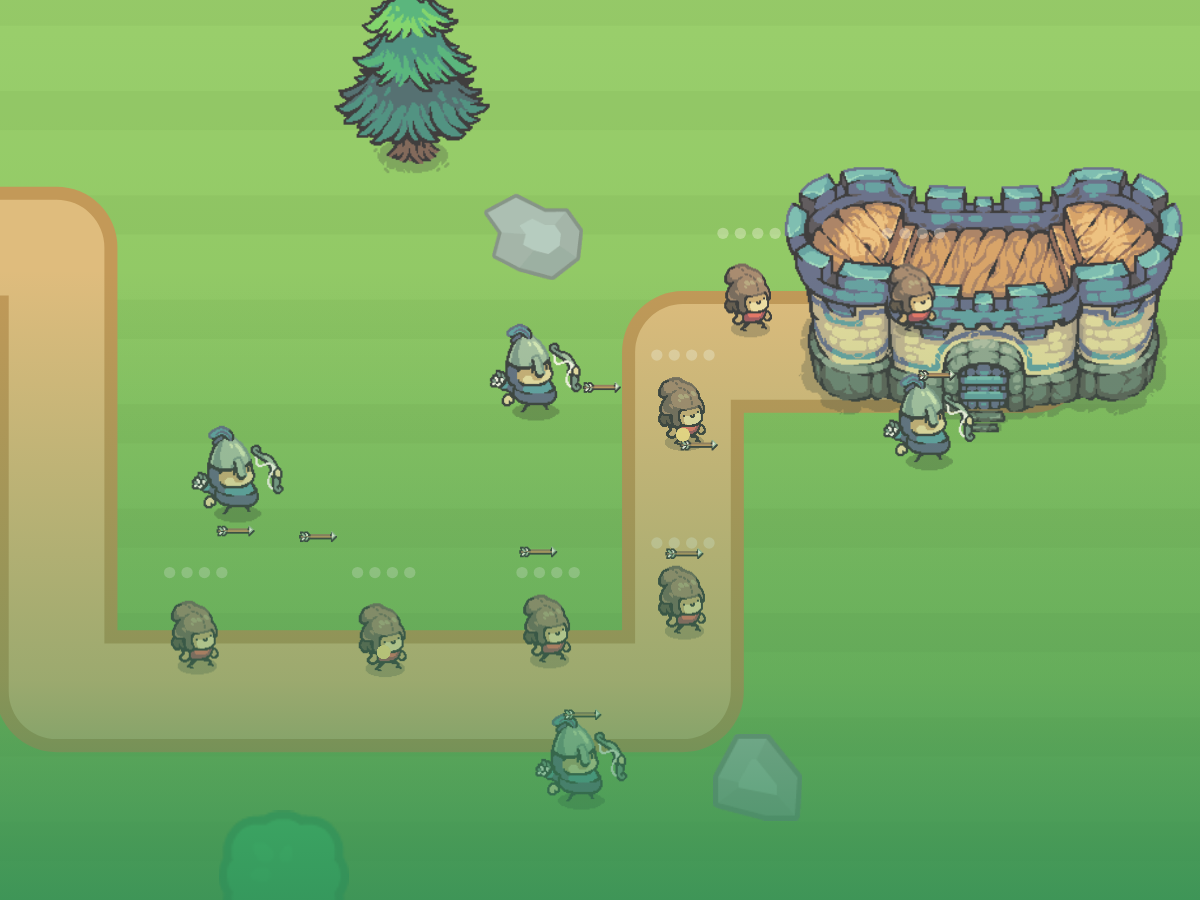
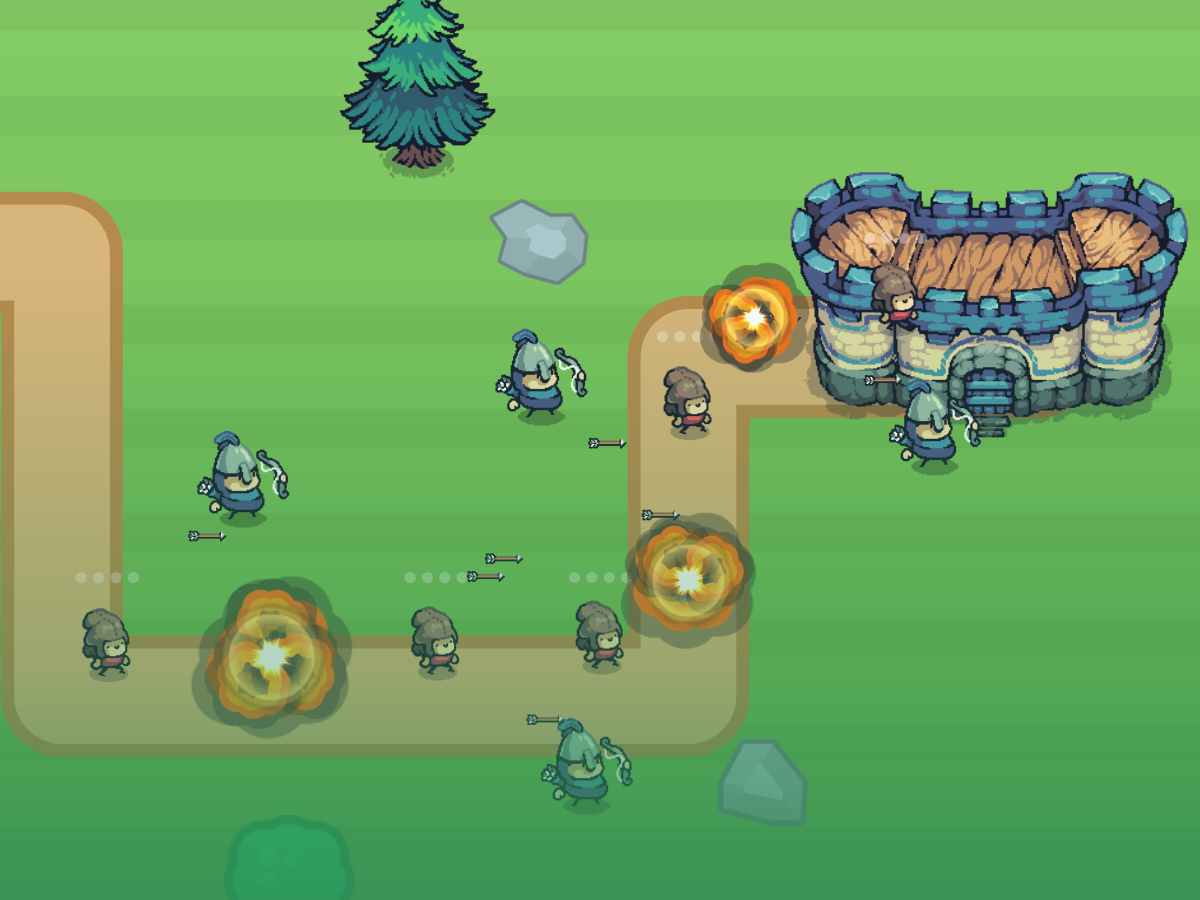
TS0: real explosions in both games, not painted into the photo
Mike asked for explosions. No new art was needed: the shared FX library
already held a nine-frame cartoon explosion (public/fx/explode0-8.png,
Kenney CC0) that no game had ever used.

- BM.blast in buildable-mechanics.js: a layered pop with the explosion
  puff drawn in its OWN colours, a shockwave ring, and a spray of stars
  and sparks. BM.explode tints every layer one flat colour, which is
  why a big one reads as a coloured blob; BM.drawParticles learned a
  raw flag so a texture can keep its own art.
- Wired into Survival's killEnemy and Castle Guard's poofBaddie, so it
  happens in play, not only in the picture.
- Castle Guard had never called BM.useTextures, so every one of its
  effects fell back to plain coloured dots. It now registers the same
  FX pack as the other engines.
- In the shots the blasts sit in the gaps where a foe just was, never
  over one still coming at you, and the screen flash and shake are off
  for the photo since both are motion cues that muddy a still frame.

qa-all.mjs: ALL CHECKS PASS. Both games still boot normally with no
photo mode and no console errors.

Claude-Session: https://claude.ai/code/session_01Kb34U7udKzq9aZuocsz4oQ

diff --git a/public/buildable-mechanics.js b/public/buildable-mechanics.js
@@ -66,7 +66,7 @@
         x, y, vx: Math.cos(a) * s, vy: Math.sin(a) * s,
         life: rnd(lf[0], lf[1]), max: lf[1], col,
         r: opts.r || 3, gravity: opts.gravity || 0, drag: opts.drag != null ? opts.drag : 4.5,
-        tex: opts.tex || null, add: !!opts.additive, rot: opts.tex ? Math.random() * TAU : 0
+        tex: opts.tex || null, add: !!opts.additive, raw: !!opts.raw, rot: opts.tex ? Math.random() * TAU : 0
       });
     }
   };
@@ -89,7 +89,7 @@
       const a = Math.max(0, Math.min(1, p.life / (p.max || 0.5)));
       const im = p.tex && BM.tex[p.tex];
       if (im && (im.naturalWidth || im.width)) {
-        const t = tintedTex(im, p.col || "#fff");
+        const t = p.raw ? im : tintedTex(im, p.col || "#fff");
         if (t) { ctx.save(); ctx.globalAlpha = a; if (p.add) ctx.globalCompositeOperation = "lighter";
           const s = (p.r || 3) * 4; ctx.translate(p.x, p.y); if (p.rot) ctx.rotate(p.rot); ctx.drawImage(t, -s / 2, -s / 2, s, s);
           ctx.restore(); continue; }
@@ -164,6 +164,43 @@
     BM.flash(fx, opts.flashCol || col, opts.flash != null ? opts.flash : (big ? 0.3 : 0.18));
     BM.shake(fx, opts.shake != null ? opts.shake : (big ? 0.4 : 0.12));
     if (opts.pop) BM.pop(fx.pops, x, y, opts.pop, opts.popCol || col);
+    if (typeof opts.sfx === "function") opts.sfx();
+    else if (opts.sfx && g.BuildableAudio) g.BuildableAudio.sfx(opts.sfx);
+  };
+
+  // ---- BLAST: the big, bright, kid-safe explosion --------------------------
+  // BM.explode tints every layer one flat colour, so a big one reads as a
+  // coloured blob. A blast layers the FX pack instead: a flare core drawn in its
+  // OWN colours, a shockwave ring, a spray of stars and sparks, and a few soft
+  // puffs drifting off it. No fire and no debris — things pop, they do not burn.
+  //   BM.blast(fx, x, y, "#ffd23f", { size: 1.4, sfx: "boom" })
+  BM.blast = function (fx, x, y, col, opts) {
+    if (!fx) return;
+    opts = opts || {}; const z = opts.size || 1; col = col || "#ffe27a";
+    if (BM.hasTex("boom")) {
+      // core: the cartoon explosion puff in its OWN colours (orange heart, grey
+      // rim), the shape a four-year-old reads as "it popped"
+      fx.parts.push({ x, y, vx: 0, vy: 0, life: 0.34, max: 0.34, col: "#fff",
+        r: 15 * z, drag: 0, gravity: 0, tex: "boom", add: false, raw: true, rot: 0 });
+      for (let i = 0; i < 3; i++) {
+        const a = Math.random() * TAU, d = 11 * z;
+        fx.parts.push({ x: x + Math.cos(a) * d, y: y + Math.sin(a) * d, vx: Math.cos(a) * 70, vy: Math.sin(a) * 70,
+          life: 0.4, max: 0.4, col: "#fff", r: 9 * z, drag: 3, gravity: 0, tex: "boom", add: false, raw: true, rot: Math.random() * TAU });
+      }
+      if (BM.hasTex("puff")) BM.burst(fx.parts, x, y, "#fff", Math.round(4 * z), { tex: "puff", raw: true, spd: [40, 150], life: [0.5, 0.9], r: 10 * z, drag: 2.4 });
+      BM.burst(fx.parts, x, y, col, Math.round(10 * z), { tex: "star", additive: true, spd: [150, 430], life: [0.32, 0.62], r: 6 * z, drag: 4.5 });
+      BM.burst(fx.parts, x, y, "#ffffff", Math.round(12 * z), { tex: "spark", additive: true, spd: [190, 520], life: [0.24, 0.5], r: 4.5 * z, drag: 5.5 });
+    } else if (BM.hasTex("spark")) {
+      fx.parts.push({ x, y, vx: 0, vy: 0, life: 0.22, max: 0.22, col: col,
+        r: 15 * z, drag: 0, gravity: 0, tex: "glow", add: true, rot: 0 });
+      BM.burst(fx.parts, x, y, col, Math.round(11 * z), { tex: "star", additive: true, spd: [130, 420], life: [0.32, 0.62], r: 6 * z, drag: 4.5 });
+      BM.burst(fx.parts, x, y, "#ffffff", Math.round(13 * z), { tex: "spark", additive: true, spd: [180, 520], life: [0.24, 0.5], r: 4.5 * z, drag: 5.5 });
+    } else {
+      BM.burst(fx.parts, x, y, col, Math.round(22 * z), { spd: [90, 380], life: [0.3, 0.6], r: 4 * z });
+    }
+    BM.ring(fx, x, y, 120 * z, col);
+    BM.flash(fx, opts.flashCol || col, opts.flash != null ? opts.flash : 0.22 * z);
+    BM.shake(fx, opts.shake != null ? opts.shake : 0.22 * z);
     if (typeof opts.sfx === "function") opts.sfx();
     else if (opts.sfx && g.BuildableAudio) g.BuildableAudio.sfx(opts.sfx);
   };

diff --git a/public/survival-engine.html b/public/survival-engine.html
@@ -157,7 +157,7 @@ function sfx(n,o){ if(DEMO)return; if(BA)BA.sfx(n,o); }
 const BM=(typeof window!=="undefined"&&window.BuildableMechanics)||(typeof globalThis!=="undefined"&&globalThis.BuildableMechanics);
 const fx=BM?BM.makeFx():null;   // flash+shake live here; the engine keeps its own particles/rings
 // Kenney CC0 particle textures (served from /fx) → glowing tinted FX; drawn shapes are the fallback.
-if(BM&&BM.useTextures) BM.useTextures({ glow:"/fx/circle_05.png", spark:"/fx/star_01.png", star:"/fx/star_07.png", ring:"/fx/circle_01.png", smoke:"/fx/smoke_05.png", fire:"/fx/fire_01.png", muzzle:"/fx/light_03.png", magic:"/fx/magic_05.png" });
+if(BM&&BM.useTextures) BM.useTextures({ glow:"/fx/circle_05.png", spark:"/fx/star_01.png", star:"/fx/star_07.png", ring:"/fx/circle_01.png", smoke:"/fx/smoke_05.png", fire:"/fx/fire_01.png", muzzle:"/fx/light_03.png", magic:"/fx/magic_05.png", boom:"/fx/explode4.png", puff:"/fx/explode7.png" });
 // shared start screen / level picker (BS) — the consistent launch screen for every game
 const BS=(typeof window!=="undefined"&&window.BuildableStartScreen)||(typeof globalThis!=="undefined"&&globalThis.BuildableStartScreen);
 // shared HUD (buildable-hud.js) — the ONE info-bar system for every game.
@@ -565,9 +565,9 @@ function tierVal(t){ return t===3?10:t===2?5:1; }
 function dropCoin(x,y,tier){ const rr=dropRng||Math.random; const t=tier||rollTier(); gems.push({ x,y, tier:t, val:tierVal(t), vx:(rr()-0.5)*2, vy:(rr()-0.5)*2, got:false }); }
 function killEnemy(e){
   if(e.boss){ for(let i=0;i<3;i++) dropCoin(e.x+(Math.random()-0.5)*46, e.y+(Math.random()-0.5)*46, 3); boss=null;
-    if(BM&&fx) BM.explode(fx, e.x, e.y, e.col, { big:true, sfx:"boom" }); else { burst(e.x,e.y,e.col,26); sfx("boom"); } }
+    if(BM&&fx&&BM.blast) BM.blast(fx, e.x, e.y, e.col, { size:1.5, sfx:"boom" }); else if(BM&&fx) BM.explode(fx, e.x, e.y, e.col, { big:true, sfx:"boom" }); else { burst(e.x,e.y,e.col,26); sfx("boom"); } }
   else { dropCoin(e.x,e.y);
-    if(BM&&fx) BM.explode(fx, e.x, e.y, e.col, { sfx:"explode" }); else { burst(e.x,e.y,e.col,10); sfx("explode"); }
+    if(BM&&fx&&BM.blast) BM.blast(fx, e.x, e.y, e.col, { sfx:"explode" }); else if(BM&&fx) BM.explode(fx, e.x, e.y, e.col, { sfx:"explode" }); else { burst(e.x,e.y,e.col,10); sfx("explode"); }
     const i=enemies.indexOf(e); if(i>=0)enemies.splice(i,1); } }
 // walk-over drop effects (instant, one-time treats)
 function collectDrop(kind){
@@ -861,12 +861,18 @@ function survShotPose(){
   // BR.coin spins on the clock, so pick the instant where it faces us square on
   SHOT_T=(2*Math.PI*Math.ceil((gx+1)/(2*Math.PI)) - gx)/3;
   drops.length=0; holes.length=0; boss=null; bossSpawned=false; helpOpen=false;
-  // the impact sparks go in LAST, so nothing above clears them
+  // the blasts go in LAST, so nothing above clears them. No screen flash and no
+  // shake: both are motion cues that only make a still picture muddy.
   if(BM&&fx&&BM.reset){ try{ BM.reset(fx); }catch(e){} }
-  burst(enemies[1].x, enemies[1].y, "#cfeaff", 22);
-  burst(enemies[3].x, enemies[3].y, P.spark, 22);
-  burst(enemies[4].x, enemies[4].y, P.spark, 16);
-  burst(enemies[2].x, enemies[2].y, P.spark, 12);
+  // three foes popped a moment ago: the blasts sit in the GAPS, where a foe just
+  // was, not on top of one that is still coming at you
+  if(BM&&fx&&BM.blast){
+    BM.blast(fx, sxw(0.49), syw(0.39), P.spark,     { size:1.15, flash:0, shake:0 });
+    BM.blast(fx, sxw(0.84), syw(0.85), P.gem||P.spark, { size:0.85, flash:0, shake:0 });
+    BM.blast(fx, sxw(0.67), syw(0.53), "#ffd23f",   { size:0.65, flash:0, shake:0 });
+  }
+  burst(enemies[4].x, enemies[4].y, P.spark, 14);
+  burst(enemies[2].x, enemies[2].y, P.spark, 10);
   shotPosed=true;
 }
 function survShotTick(){

diff --git a/public/castle-guard.html b/public/castle-guard.html
@@ -645,7 +645,9 @@ function step(dt) {
 function poofBaddie(b, p) {
   b.poof = 0.45;
   S.coins += (b.kind.reward != null ? b.kind.reward : GAME_CONFIG.econ.perPoof);
-  if (BM) { BM.explode(fx, p.x, p.y, "#cfd8c0", { n: 16, pop: "poof!" }); }
+  if (BM && BM.blast) BM.blast(fx, p.x, p.y, "#ffe08a", { size: 1.15 });
+  else if (BM) { BM.explode(fx, p.x, p.y, "#cfd8c0", { n: 16 }); }
+  if (BM) BM.pop(fx.pops, p.x, p.y, "poof!", "#cfd8c0");
   if (BM) BM.pop(fx.pops, p.x, p.y - 18, "+" + (b.kind.reward || GAME_CONFIG.econ.perPoof), "#ffe08a");
   sfx("poof"); sfx("coin", { vol: 0.6 });
 }
@@ -1189,6 +1191,11 @@ function cgShotFocus() {
   cgShotF = { x: (g.x + c.x) / 2, y: (g.y + c.y) / 2 };
   return cgShotF;
 }
+/* The FX pack was never registered here, so every poof fell back to plain
+   coloured dots. Same Kenney CC0 textures the other engines use. */
+try { if (BM && BM.useTextures) BM.useTextures({ glow:"/fx/circle_05.png", spark:"/fx/star_01.png",
+  star:"/fx/star_07.png", ring:"/fx/circle_01.png", smoke:"/fx/smoke_05.png",
+  boom:"/fx/explode4.png", puff:"/fx/explode7.png", muzzle:"/fx/light_03.png", magic:"/fx/magic_05.png" }); } catch (e) {}
 function cgShotColor() { try { const m = window.BUILDABLE_MANIFEST; if (m && m.color) return m.color; } catch (e) {} return "#2E8B57"; }
 function cgShotStart() {
   cgHideStart();
@@ -1214,7 +1221,7 @@ function cgShotSpawnBaddie() {
 function cgShotPose() {
   if (!S) return;
   // a whole column of goblins on the road, not a token three
-  const picks = [0.50, 0.58, 0.65, 0.72, 0.80, 0.88, 0.95].map(f => S.W.total * f);
+  const picks = [0.46, 0.53, 0.60, 0.67, 0.74, 0.81, 0.88, 0.94].map(f => S.W.total * f);
   while (S.baddies.length < picks.length) cgShotSpawnBaddie();
   S.baddies.length = picks.length;
   S.baddies.forEach((b, i) => { b.dist = picks[i]; b.hp = b.max; b.poof = 0; b.hit = 0; b.gone = false; });
@@ -1234,11 +1241,16 @@ function cgShotPose() {
   });
   S.bombs.length = 0;
   S.tutSlot = -1;                       // no tutorial hand, no glowing "tap here"
-  // two goblins poofing right now, in the game's own sparkles (no pop word)
-  if (BM) {
-    [1, 4].forEach((i) => { const b = S.baddies[i]; if (!b) return;
+  // three goblins poofing right now, in the game's own blast (no pop word, and
+  // no screen flash or shake: motion cues only muddy a still picture)
+  if (BM && BM.blast) {
+    const popped = [1, 4, 6];
+    popped.forEach((i, k) => { const b = S.baddies[i]; if (!b) return;
       const p = pointAtRaw(S.W.segs, S.W.total, b.dist);
-      BM.explode(fx, p.x, p.y - 18, "#ffe08a", { n: 16 }); });
+      BM.blast(fx, p.x, p.y - 18, "#ffe08a", { size: 1.25 - k * 0.2, flash: 0, shake: 0 }); });
+    // and those three are GONE — the blast is where they were, not painted over
+    // a goblin still walking
+    S.baddies = S.baddies.filter((b, i) => popped.indexOf(i) < 0);
   }
   shotPosed = true;
 }

diff --git a/public/tile-shots.html b/public/tile-shots.html
@@ -55,7 +55,7 @@
 <main>
   <section class="game">
     <h2>Space Survival</h2>
-    <p class="sub">The dark world. Sunset sky, the jetpack hero mid-fight, six foes closing in, a volley of sparkles in the air, a lightning zap connecting, coins spilling.</p>
+    <p class="sub">The dark world. Sunset sky, the jetpack hero mid-fight, six foes closing in, three foes blown up mid-frame, a volley of sparkles, a lightning zap connecting, coins spilling.</p>
     <div class="row">
       <figure><img src="/tile-shots/survival.png" alt="Space Survival, new photo with the colour wash">
         <figcaption><span class="tag new">new</span> with the purple wash</figcaption></figure>
@@ -76,7 +76,7 @@
 
   <section class="game">
     <h2>Castle Guard</h2>
-    <p class="sub">The bright world. The castle on the right, four archers all loosing at once, seven goblins marching the road, six arrows in the air.</p>
+    <p class="sub">The bright world. The castle on the right, four archers all loosing at once, five goblins still marching, three blown up on the road, six arrows in the air.</p>
     <div class="row">
       <figure><img src="/tile-shots/castleguard.png" alt="Castle Guard, new photo with the colour wash">
         <figcaption><span class="tag new">new</span> with the green wash</figcaption></figure>
@@ -104,6 +104,11 @@
       the game looks like. The painting is prettier and less true.</li>
       <li><b>Castle Guard has no coin on the field</b>, so it has no treat in the picture. Tower
       defence keeps its coins in the info bar, which the photo hides.</li>
+      <li><b>The explosions are real now, in the games themselves.</b> Both games got a proper
+      cartoon blast when something pops, built from explosion art that was already in the
+      shared library and had never been used. So the picture is not dressed up: play either
+      game and you get the same bang. Castle Guard had no sparkle effects wired in at all
+      until now, so its poofs were plain grey dots.</li>
     </ul>
   </div>
 </main>

diff --git a/SESSION-LOG.md b/SESSION-LOG.md
@@ -49,6 +49,21 @@ out: a second lightning arc and a nova shockwave ring read as white ropes and a
 geometric circle rather than as action, and a big particle explosion covered the foe
 it was meant to be killing.
 
+**Third pass: real explosions.** Mike asked for explosions and offered to make art. No
+new art was needed — the shared FX library already had a nine-frame cartoon explosion
+(`public/fx/explode0-8.png`, Kenney CC0) that no game had ever used. So rather than
+paint a bang into the photo, both games got a real one: `BM.blast` in
+`buildable-mechanics.js`, a layered pop with the explosion puff drawn in its OWN colours
+(the existing `BM.explode` tints every layer one flat colour, which is why a big one read
+as a coloured blob), plus a shockwave ring and a spray of stars and sparks. It is wired
+into Survival's `killEnemy` and Castle Guard's `poofBaddie`, so it happens in play, not
+only in the picture. `BM.drawParticles` learned a `raw` flag for untinted textures, which
+is what makes that possible. Castle Guard turned out never to have called
+`BM.useTextures` at all, so every one of its effects had been falling back to plain
+coloured dots — now fixed. In the shots the blasts sit in the gaps where a foe just was,
+never painted over one that is still coming at you, and the screen flash and shake are
+turned off for the photo since both are motion cues that only muddy a still frame.
+
 **Open for Mike, on `/tile-shots`.** Wash or no wash. Real screenshot or the AI
 painting. Both variants are on the page.
 

diff --git a/README.md b/README.md
@@ -46,6 +46,16 @@ Effects that did not survive: a second lightning arc and a nova ring, which read
 white ropes and a geometric circle, and a particle explosion big enough to hide the
 foe underneath it.
 
+**Real explosions, not painted-on ones.** `BM.blast` in `buildable-mechanics.js` is a
+layered cartoon pop built from `public/fx/explode0-8.png` — nine-frame Kenney CC0
+explosion art that had sat unused in the shared library since June. The puff is drawn in
+its own colours (`BM.drawParticles` learned a `raw` flag for that), because the older
+`BM.explode` tints every layer one flat colour and a big one reads as a blob. It is wired
+into Survival's `killEnemy` and Castle Guard's `poofBaddie`, so the games really do this
+now and the tile is not dressed up. Castle Guard had never called `BM.useTextures`, so
+all of its effects had been falling back to plain coloured dots; it now registers the
+same FX pack as the other engines.
+
 **Two findings for the rollout.** The wash reads well on Space Survival (purple over
 a sunset sky) and all but disappears on Castle Guard (green over grass), so wash
 strength is a per-game question, not one setting. And tower defence has no coin on
